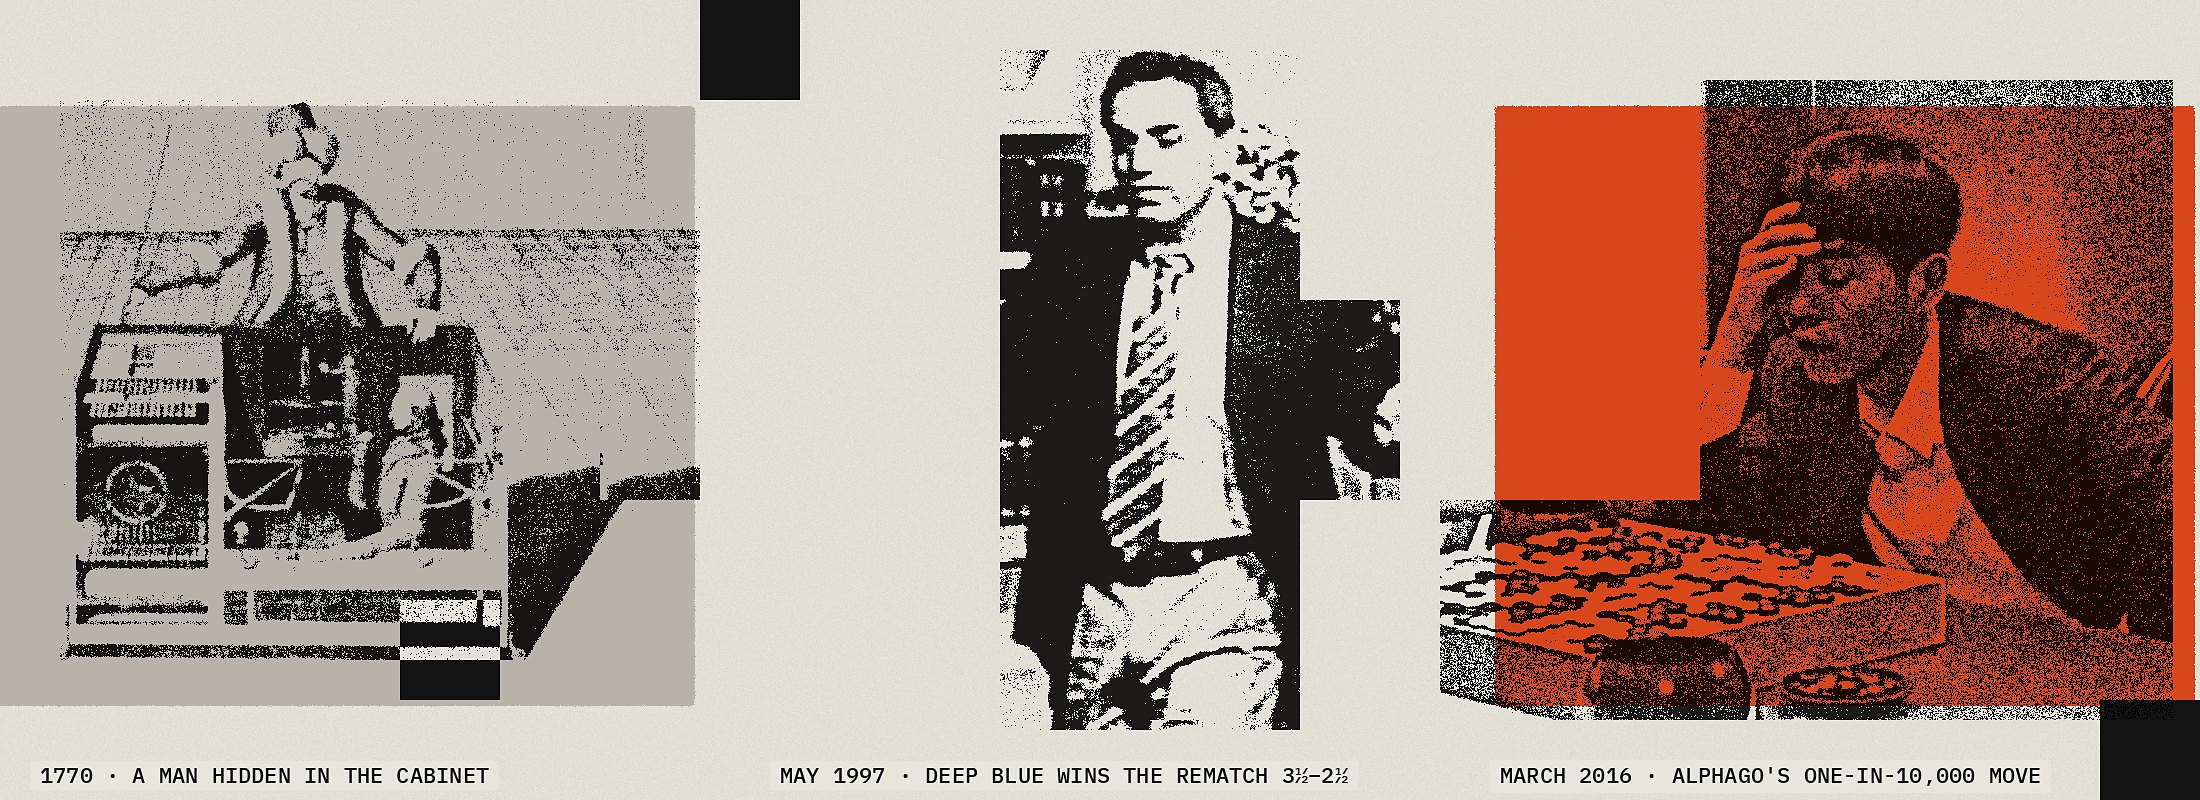
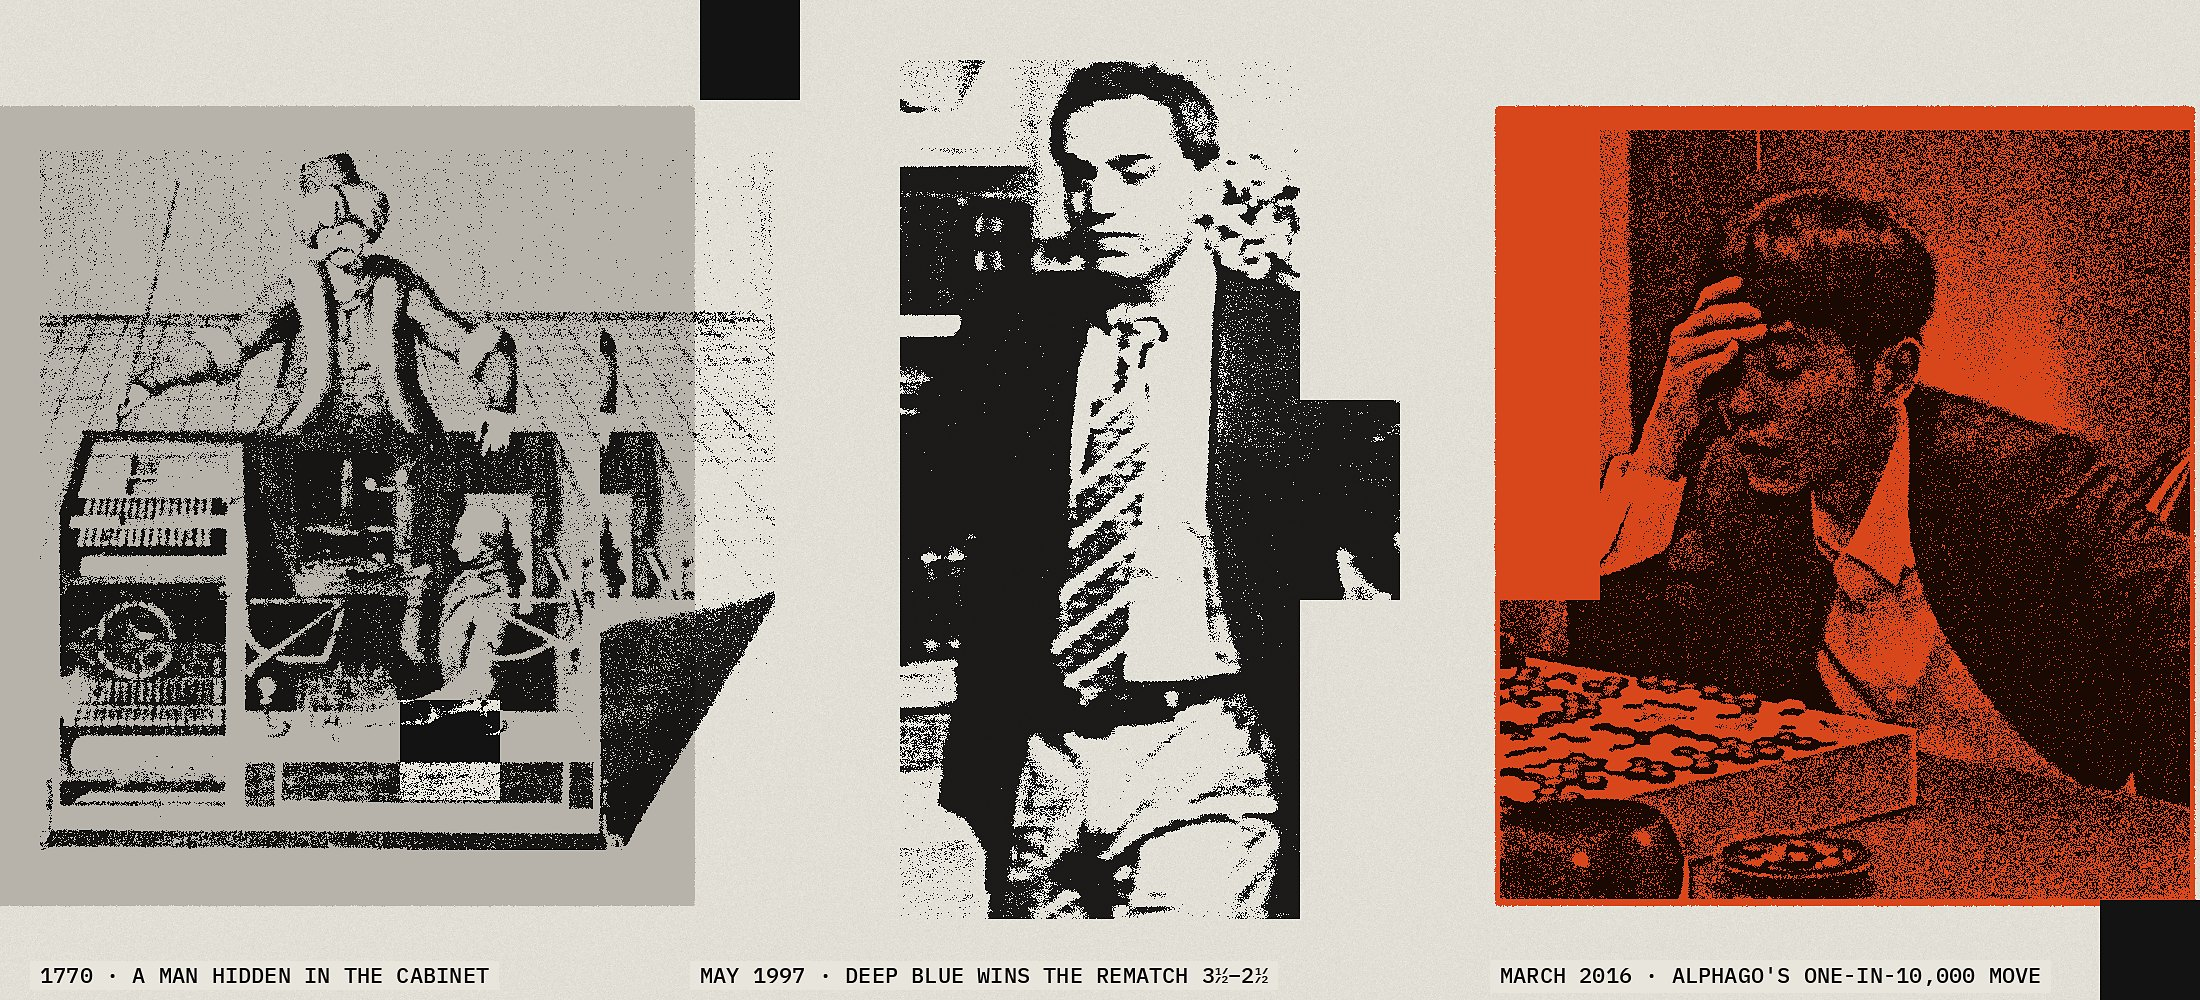
History of AI card a quarter taller (11:4 to 11:5) so it reads as the biggest card; record the two stills as screenshots from the official live streams
Claude-Session: https://claude.ai/code/session_01Sc1pzyhKsrC3mM6v1oVhk6

diff --git a/src/styles/site.css b/src/styles/site.css
@@ -244,7 +244,7 @@ a.hist:hover .ht { text-decoration: underline; }
 .hcard:hover img { filter: brightness(0.96); }
 .hcard:hover .hc-t { text-decoration: underline; text-underline-offset: 6px; }
 .hcard:focus-visible { outline: 2px solid var(--ink); outline-offset: 6px; }
-.hpano img { aspect-ratio: 11 / 4; }
+.hpano img { aspect-ratio: 11 / 5; }
 .hc-side { display: grid; grid-template-columns: calc(var(--c) * 5 + var(--g) * 4) minmax(0, 1fr); column-gap: var(--g); row-gap: 28px; align-items: start; margin-top: 12px; }
 .hc-body { display: flex; flex-direction: column; gap: 12px; }
 .hc-t { margin: 0; font-size: 32px; line-height: 36px; font-weight: 600; letter-spacing: -0.015em; }

diff --git a/scripts/collages.py b/scripts/collages.py
@@ -129,7 +129,7 @@ def render(spec):
 
 
 ISM, THEME, PAGE = (1600, 1200), (1500, 1000), (1200, 1500)   # PAGE: the vertical image at the top of a page, 4:5, 12 x 15 squares
-HISTORY = (2200, 800)   # the History of AI card, side to side at the height of a movement card: 11:4, 22 x 8 squares
+HISTORY = (2200, 1000)  # the History of AI card, side to side and a quarter taller than a movement card: 11:5, 22 x 10 squares (owner, 21 Nov)
 SPECS = [
     dict(id='collage-transhumanism', size=ISM, colour=GREEN, seed=3,
          fields=[(0, 1, 9, 10), (10, 0, 6, 5)], black=[(9, 0, 1, 1), (15, 7, 1, 1)],
@@ -208,15 +208,15 @@ SPECS = [
     # History of AI: three machines at play (owner, 21 Nov 2026). The two stills of people are the owner's exception to the
     # no-people rule, cleared by the owner; the Turk is public domain.
     dict(id='collage-history', size=HISTORY, colour=GREY, seed=1770,
-         fields=[(0, 1, 7, 6), (15, 1, 7, 6, ORANGE)], black=[(7, 0, 1, 1), (21, 7, 1, 1)],
+         fields=[(0, 1, 7, 8), (15, 1, 7, 8, ORANGE)], black=[(7, 0, 1, 1), (21, 9, 1, 1)],
          fragments=[
-             dict(img='turk-racknitz-1789.jpg', box=(587, 560), crop=(0.13, 0.115, 0.94, 0.96), how='screen', level=0.33, blur=1.3, at=(60, 100)),
-             dict(img='kasparov-1997-still.jpg', box=(681, 680), crop=(0.0, 0.04, 0.53, 1.0), how='screen', level=0.36, detail=1.2, blur=1.0, at=(760, 50),
-                  keep=[(10, 0, 3, 8), (13, 3, 1, 2)]),
-             dict(img='lee-sedol-2016-still.jpg', box=(733, 640), crop=(0.33, 0.0, 1.0, 1.0), channel='B', how='screen', level=0.27, detail=1.0, blur=1.0, at=(1440, 80),
-                  keep=[(14, 5, 6, 3), (17, 0, 5, 8)])],
-         shift=[(6, 2, 1, 3, 1, 0)], invert=[(4, 6, 1, 1)],
-         labels=[('1770 · A MAN HIDDEN IN THE CABINET', 40, 760), ('MAY 1997 · DEEP BLUE WINS THE REMATCH 3½–2½', 780, 760), ("MARCH 2016 · ALPHAGO'S ONE-IN-10,000 MOVE", 1500, 760)]),
+             dict(img='turk-racknitz-1789.jpg', box=(735, 700), crop=(0.13, 0.115, 0.94, 0.96), how='screen', level=0.33, blur=1.3, at=(40, 150)),
+             dict(img='kasparov-1997-still.jpg', box=(860, 859), crop=(0.0, 0.04, 0.53, 1.0), how='screen', level=0.36, detail=1.2, blur=1.0, at=(620, 60),
+                  keep=[(9, 0, 4, 10), (13, 4, 1, 2)]),
+             dict(img='lee-sedol-2016-still.jpg', box=(880, 769), crop=(0.33, 0.0, 1.0, 1.0), channel='B', how='screen', level=0.27, detail=1.0, blur=1.0, at=(1310, 130),
+                  keep=[(16, 0, 6, 10), (15, 6, 5, 3)])],
+         shift=[(6, 3, 1, 3, 1, 0)], invert=[(4, 7, 1, 1)],
+         labels=[('1770 · A MAN HIDDEN IN THE CABINET', 40, 960), ('MAY 1997 · DEEP BLUE WINS THE REMATCH 3½–2½', 700, 960), ("MARCH 2016 · ALPHAGO'S ONE-IN-10,000 MOVE", 1500, 960)]),
     dict(id='collage-history-tall', size=PAGE, colour=GREY, seed=1770,
          fields=[(0, 1, 6, 5), (5, 10, 7, 4, ORANGE)], black=[(11, 0, 1, 1), (1, 11, 1, 1)],
          fragments=[

diff --git a/WORKPLAN.md b/WORKPLAN.md
@@ -14,7 +14,7 @@ Every session starts here: find the first stage that is not done, do the next pi
   - [x] Effective accelerationism (incl. neoreaction and the network state) — 16 entries, 10 figures, checked and merged
   - [x] Techno-optimism (incl. augmentation) — 16 entries, 12 figures, checked and merged
 - [x] **4. Themes.** All seven written, checked and merged (20 Nov).
-- [x] **4b. History of AI** (owner, 20 Nov: the third track, between the movements and the vocabulary). 97 moments in eight eras (`ERAS` in `src/lib/site.ts`), one file per era in `src/data/history/`, each with one of nine threads (`THREADS`), newest first, folding open on `history.html`. Drafted by three agents and checked by three others; 16 history words added to the vocabulary (`src/data/words/history-*.yaml`). Card: von Kempelen's Turk with 1997 (batch 7), a panorama from side to side at the height of a movement card (`HISTORY`, 2200 × 800, 11:4; owner, 20 Nov) and a 4:5 page image.
+- [x] **4b. History of AI** (owner, 20 Nov: the third track, between the movements and the vocabulary). 97 moments in eight eras (`ERAS` in `src/lib/site.ts`), one file per era in `src/data/history/`, each with one of nine threads (`THREADS`), newest first, folding open on `history.html`. Drafted by three agents and checked by three others; 16 history words added to the vocabulary (`src/data/words/history-*.yaml`). Card: three machines at play, the Turk (1770), Kasparov (1997) and Lee Sedol (2016), a panorama from side to side, a quarter taller than a movement card so it reads as the biggest card (`HISTORY`, 2200 × 1000, 11:5; owner, 21 Nov; it was 11:4 at movement-card height), and a 4:5 version for phones and the page.
 - [ ] **5. Images.** Every movement, key word and the History of AI has its collage card (batches 1–7). New cards follow the illustration guide: a session lists candidates as a batch in `docs/image-batches/batch-NN.md` (file, what it shows, file page, licence, size); the owner approves in the main conversation; only then is anything downloaded and the collage made there.
 - [ ] **6. Checks.** WCAG 2.2 AA, speed, links, a source on every entry.
 - [ ] **6b. Phone pass** (owner, 21 Nov: later). A hamburger menu on phones; until then the menu wraps onto a second line. Also: the history panorama is small on phones (consider its 4:5 page image there), and the sticky section menus on long pages.
@@ -33,7 +33,7 @@ Every session starts here: find the first stage that is not done, do the next pi
 
 - Whether images under a non-commercial licence (CC BY-NC, e.g. the British Museum's Gilgamesh tablet, a Barlach lithograph) are acceptable.
 
-- Image batch approvals (sent as lists when ready). Batches 6, 7 and 8 were approved and used (Watt's governor for Alignment; von Kempelen's Turk for the History of AI; Deep Blue at the Computer History Museum for its moment). Still needed from the owner: the source of the Kasparov and Lee Sedol stills.
+- Image batch approvals (sent as lists when ready). Batches 6, 7 and 8 were approved and used (Watt's governor for Alignment; von Kempelen's Turk for the History of AI; Deep Blue at the Computer History Museum for its moment).
 - The domain (mademinds.org: owner checks and buys it), and when to allow search engines (remove the noindex tag).
 - Hosting (owner, 21 Nov: later): move the site from GitHub Pages to Cloudflare, likely Workers static assets serving `dist/` (no adapter needed for a static Astro build), with the domain mademinds.org. Needs the owner's Cloudflare account and explicit go; no session starts it on its own.
 - Before launch: delete the dev grid switch (owner, 21 Nov: the "Grid" button and G key in `src/layouts/Base.astro`, and the "DEV ONLY" block at the end of `src/styles/site.css`). The name Made Minds was decided on 20 November 2026.
@@ -51,7 +51,9 @@ The site now has three tracks: **Movements** (the six, done), **History of AI** 
 
 ## Log
 
-- 2026-11-21: History of AI card redesigned (owner): three machines at play, the Turk (1770), Kasparov walking away from Deep Blue (1997) and Lee Sedol against AlphaGo (2016), no big type, labels along the bottom; grey, paper and orange. A vertical version for phones and the history page, and three variations as images on those moments in the timeline (the Turk's hidden player, Deep Blue's towers from batch 8, Lee Sedol). The two stills are an owner exception to the no-people rule, cleared by the owner as fair use; their source is still to be recorded. Engine: fragments can be cut out along the grid (`keep`), and a field can carry its own colour.
+- 2026-11-21: History card made taller, 11:4 to 11:5 (owner): at movement-card height its three subjects came out smaller than the single objects above it. 2:1 was tried and crowded the panels.
+
+- 2026-11-21: History of AI card redesigned (owner): three machines at play, the Turk (1770), Kasparov walking away from Deep Blue (1997) and Lee Sedol against AlphaGo (2016), no big type, labels along the bottom; grey, paper and orange. A vertical version for phones and the history page, and three variations as images on those moments in the timeline (the Turk's hidden player, Deep Blue's towers from batch 8, Lee Sedol). The two stills are an owner exception to the no-people rule, cleared by the owner as fair use; both are screenshots from the official live streams of the matches. Engine: fragments can be cut out along the grid (`keep`), and a field can carry its own colour.
 
 - 2026-11-21: The scheduled task's instructions and this procedure rewritten for the new direction (three tracks, key words, history, image batches only, no deploy from scheduled runs). The scheduled task is paused until the owner resumes it.
 

diff --git a/CLAUDE.md b/CLAUDE.md
@@ -17,7 +17,7 @@ A website, built first to pitch funders for an exhibition. It maps the isms of t
   - Acceleration: Effective accelerationism (includes neoreaction and the network state) · Techno-optimism (includes augmentation)
 - **Below the six: key words and the vocabulary** (owner, 20 Nov 2026). The broad themes are gone. Instead, narrow terms people hear again and again in the debate. Every term is in the **vocabulary** (`src/data/words/`: what it means, who coined it and when, which isms use it). About a dozen are **key words** with an illustrated card and their own page (`src/content/themes/`, the old theme files): Scaling laws (Perceptron card), Compute (H100 chips), Abundance (meter), Augmentation (mouse), Facial recognition (camera), Citizens' assemblies (kleroterion), Luddite (the Luddite engraving); to come with new cards: Open weights, Alignment, AGI, The pause, p(doom). No separate critics section: criticism sits in each page's "Who disputes it" and in narrow words of its own. More key words are added over time; each stays narrow.
 - **Three tracks** (owner, 20 Nov 2026): **Movements** (who believes what), **History of AI** (what happened: machines, ideas, labs, money, laws; the ground all six react to) and **Vocabulary** (the words they fight with). The menu shows these three. The history links the other two by data: each moment is tagged with movements and key words; each era shows the movements named in it (`born` on each ism) and the words coined in it (by year); movement and key-word pages list "In the history of AI".
-- **Headings say "movements"**; "isms" stays the working word in this file and the repository. The home page has three sections, each under a plain header of one word or name (Movements, History of AI, Vocabulary; owner, 20 Nov 2026): the six in three family rows (01–06), then the **History of AI** as one panorama card, then **Vocabulary**: the illustrated key words first, then the other words as a plain list leading to the full vocabulary page (the only place with a filter, by family). No explainers of how the site works: the design should make it clear (owner, 20 Nov 2026). The hero (owner, 21 Nov 2026, option A): the subtitle and the map date on one line over a thin rule; below it "Transcend. Pause. Accelerate." across the page; under that, a bold standfirst on columns 1–5 ("ChatGPT … felt like year zero." with "It wasn't." on its own line), column 6 left empty, and three short paragraphs on columns 7–12, in line with the right-hand movement cards below, the last linking the three sections; the two columns stack under 900 px.
+- **Headings say "movements"**; "isms" stays the working word in this file and the repository. The home page has three sections, each under a plain header of one word or name (Movements, History of AI, Vocabulary; owner, 20 Nov 2026): the six in three family rows (01–06), then the **History of AI** as one panorama card (11:5, a quarter taller than a movement card so it reads as the biggest; the 4:5 version on phones), then **Vocabulary**: the illustrated key words first, then the other words as a plain list leading to the full vocabulary page (the only place with a filter, by family). No explainers of how the site works: the design should make it clear (owner, 20 Nov 2026). The hero (owner, 21 Nov 2026, option A): the subtitle and the map date on one line over a thin rule; below it "Transcend. Pause. Accelerate." across the page; under that, a bold standfirst on columns 1–5 ("ChatGPT … felt like year zero." with "It wasn't." on its own line), column 6 left empty, and three short paragraphs on columns 7–12, in line with the right-hand movement cards below, the last linking the three sections; the two columns stack under 900 px.
 - **Ism page:** Introduction · Who holds it now · Notable figures · Its words · Its themes · Who disputes it · then the history, newest first, back to the oldest root.
 - **History of AI page:** Introduction · the eras as an index · then, newest first, each era (name, span, one line, movements named in it, words from it) and its moments. A moment shows year, title and one line, and folds open to who, two to four sentences, the source and its tags. The deepest timeline on the site: about 80 moments, back to the oldest documented root.
 - **Key-word page:** Introduction (what it means, who coined it) · How the movements see it (one line each, only where a movement has a view) · Strands · Related words · In the movements' histories (built from tags) · Who disputes it. The section menu lists only the sections a page has.
